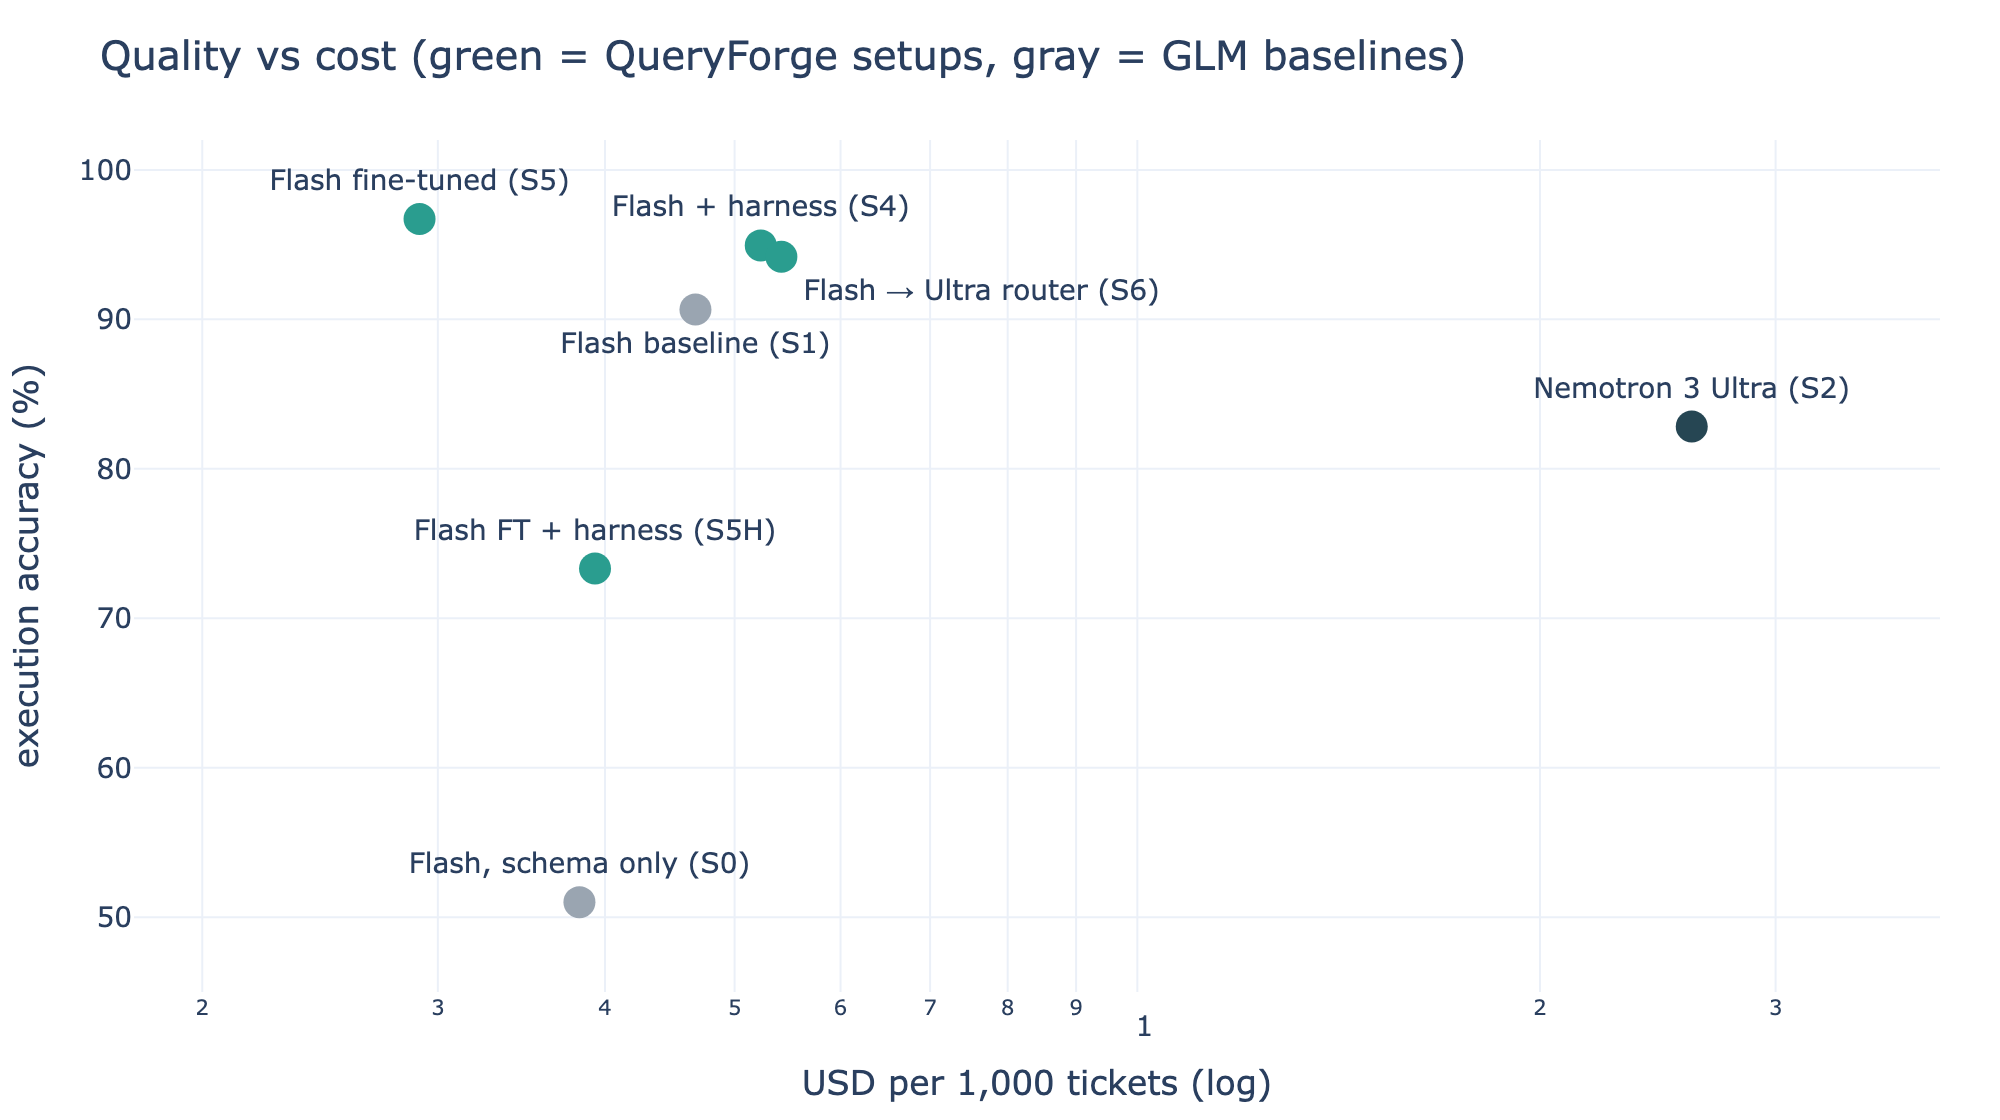
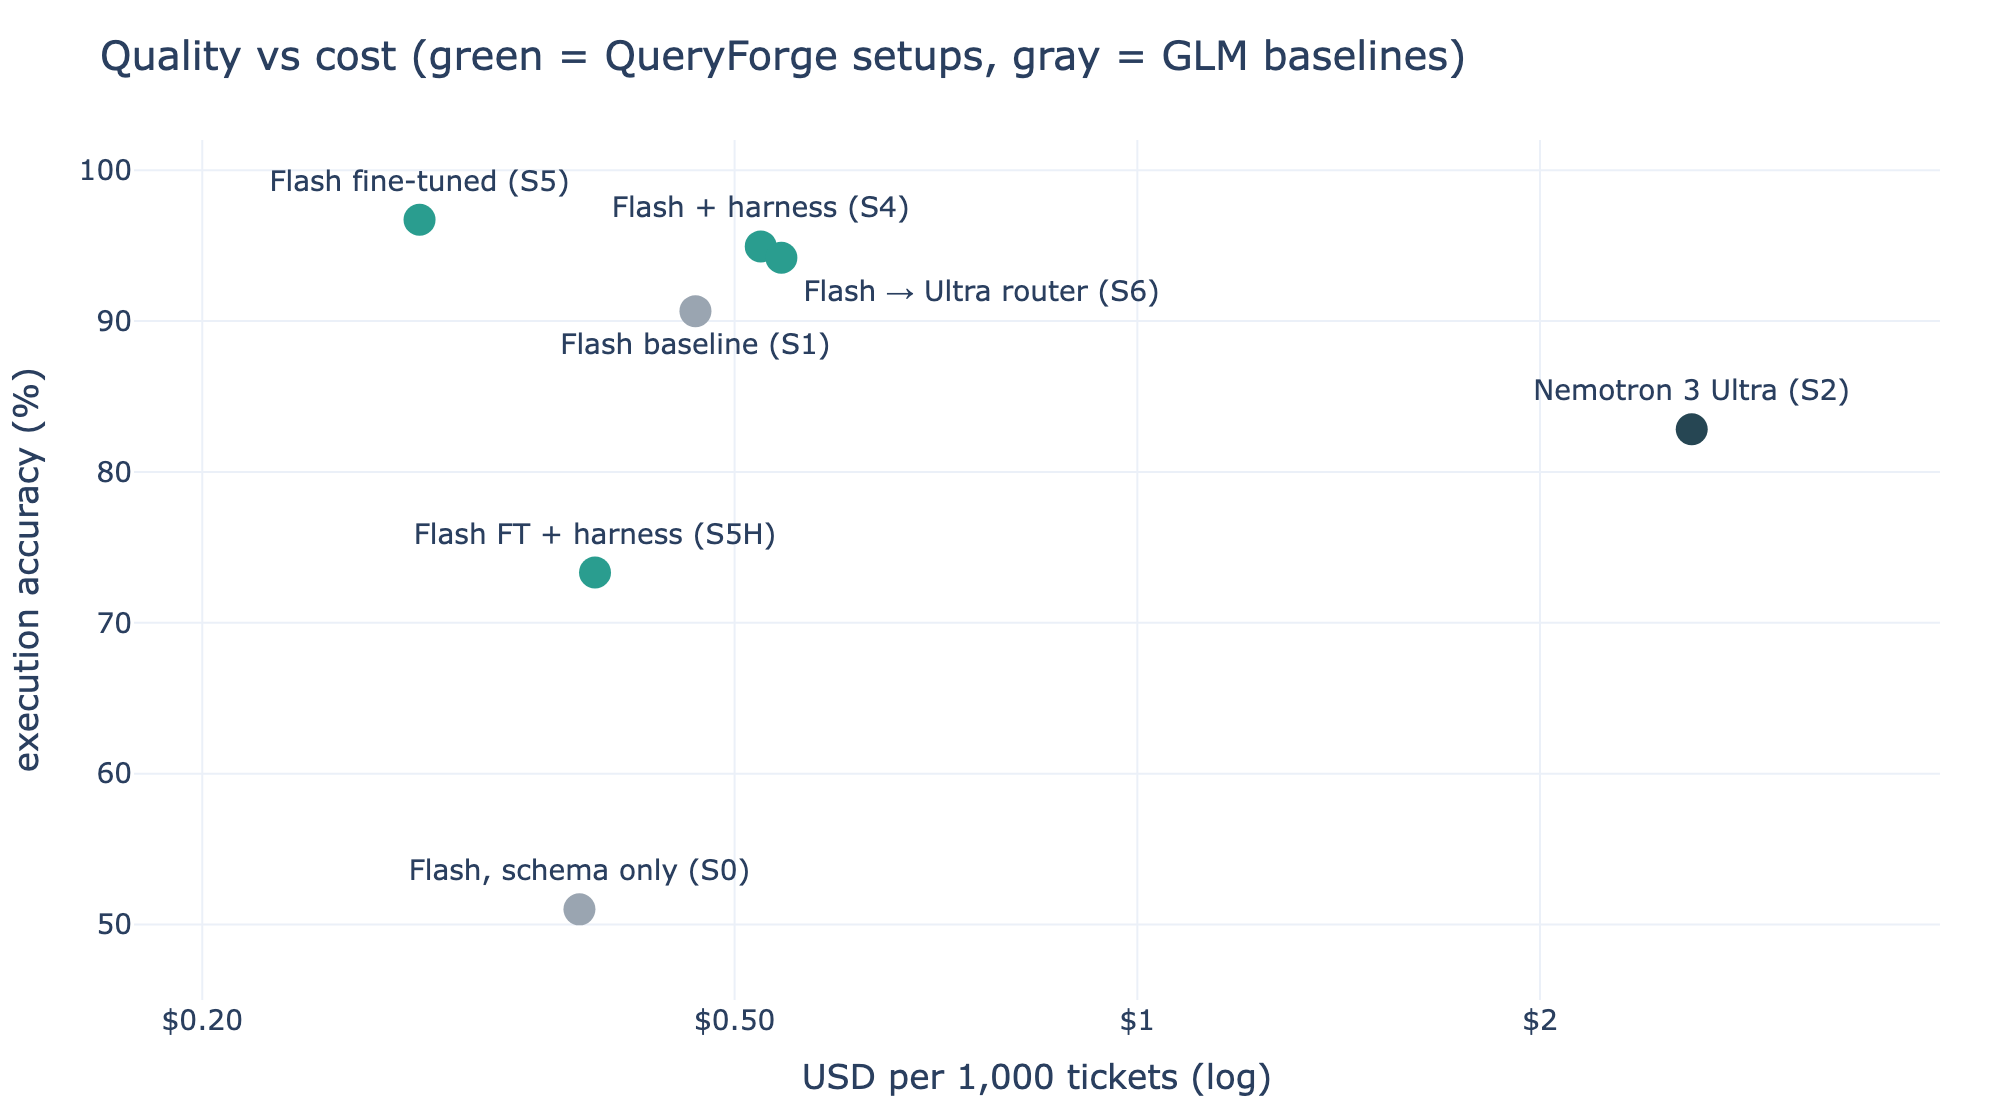
Final display fixes: failed action card, dollar ticks on cost chart, compact two-line generalization labels

diff --git a/eval/report.py b/eval/report.py
@@ -29,6 +29,10 @@ CHART = {"S0": "GLM 5.3 Flash<br>schema only (S0)", "S1": "GLM 5.3 Flash<br>base
          "S2": "Nemotron 3 Ultra<br>(S2)", "S4": "GLM 5.3 Flash<br>+ harness (S4)",
          "S5": "GLM 5.3 Flash<br>fine-tuned (S5)", "S5H": "GLM 5.3 Flash<br>fine-tuned + harness (S5H)",
          "S6": "Flash + harness<br>→ Ultra router (S6)"}
+# Compact two-line labels for the 7-bar generalization chart, so neighbours don't overlap.
+SHORT = {"S0": "Flash<br>schema only (S0)", "S1": "Flash<br>baseline (S1)", "S2": "Nemotron<br>Ultra (S2)",
+         "S4": "Flash<br>+ harness (S4)", "S5": "Flash<br>fine-tuned (S5)", "S5H": "Flash FT<br>+ harness (S5H)",
+         "S6": "Flash → Ultra<br>router (S6)"}
 TAG = {"S0": "Flash, schema only", "S1": "Flash baseline", "S2": "Nemotron 3 Ultra", "S4": "Flash + harness",
        "S5": "Flash fine-tuned", "S5H": "Flash FT + harness", "S6": "Flash → Ultra router"}
 CATS = ["simple", "join", "date", "business_rule", "gotcha", "clarify", "refuse"]
@@ -228,13 +232,14 @@ def main():
                                  marker=dict(size=16, color="#2a9d8f" if s in ("S4", "S5", "S5H", "S6") else "#9aa5b1"
                                              if s in ("S0", "S1") else "#264653"), name=LABELS[s], showlegend=False))
     fig.update_layout(title="Quality vs cost (green = QueryForge setups, gray = GLM baselines)",
-                      xaxis=dict(title="USD per 1,000 tickets (log)", type="log", range=[-0.75, 0.6]),
+                      xaxis=dict(title="USD per 1,000 tickets (log)", type="log", range=[-0.75, 0.6],
+                                 tickvals=[0.2, 0.5, 1, 2], ticktext=["$0.20", "$0.50", "$1", "$2"]),
                       yaxis=dict(title="execution accuracy (%)", range=[45, 102]))
     save(fig, "tradeoff")
 
     # Seen vs unseen templates
     fig = go.Figure()
-    xs = [CHART[s] for s in order]
+    xs = [SHORT[s] for s in order]
     fig.add_bar(name="seen templates", x=xs, y=[100 * (summ[s]["combined"]["seen_acc"] or 0) for s in order])
     fig.add_bar(name="held-out templates", x=xs, y=[100 * (summ[s]["combined"]["unseen_acc"] or 0) for s in order])
     fig.add_bar(name="hand-written", x=xs, y=[100 * (summ[s].get("handwritten", {}).get("exec_accuracy") or 0) for s in order])

diff --git a/app/streamlit_app.py b/app/streamlit_app.py
@@ -185,7 +185,7 @@ def render_answer(resp, key: str, compact: bool = False, question: str = ""):
     """Answer card: sentence, metrics, table, explanation, SQL."""
     st.markdown(f"#### {answer_sentence(resp)}")
     metrics = [("Confidence", resp.confidence), ("Latency", f"{resp.latency_ms / 1000:.1f}s"),
-               ("Cost", f"${resp.cost_usd:.5f}"), ("Action", resp.action)]
+               ("Cost", f"${resp.cost_usd:.5f}"), ("Action", "failed" if resp.error else resp.action)]
     rows = [metrics[:2], metrics[2:]] if compact else [metrics]
     for row in rows:
         for col, (label, value) in zip(st.columns(len(row)), row):
